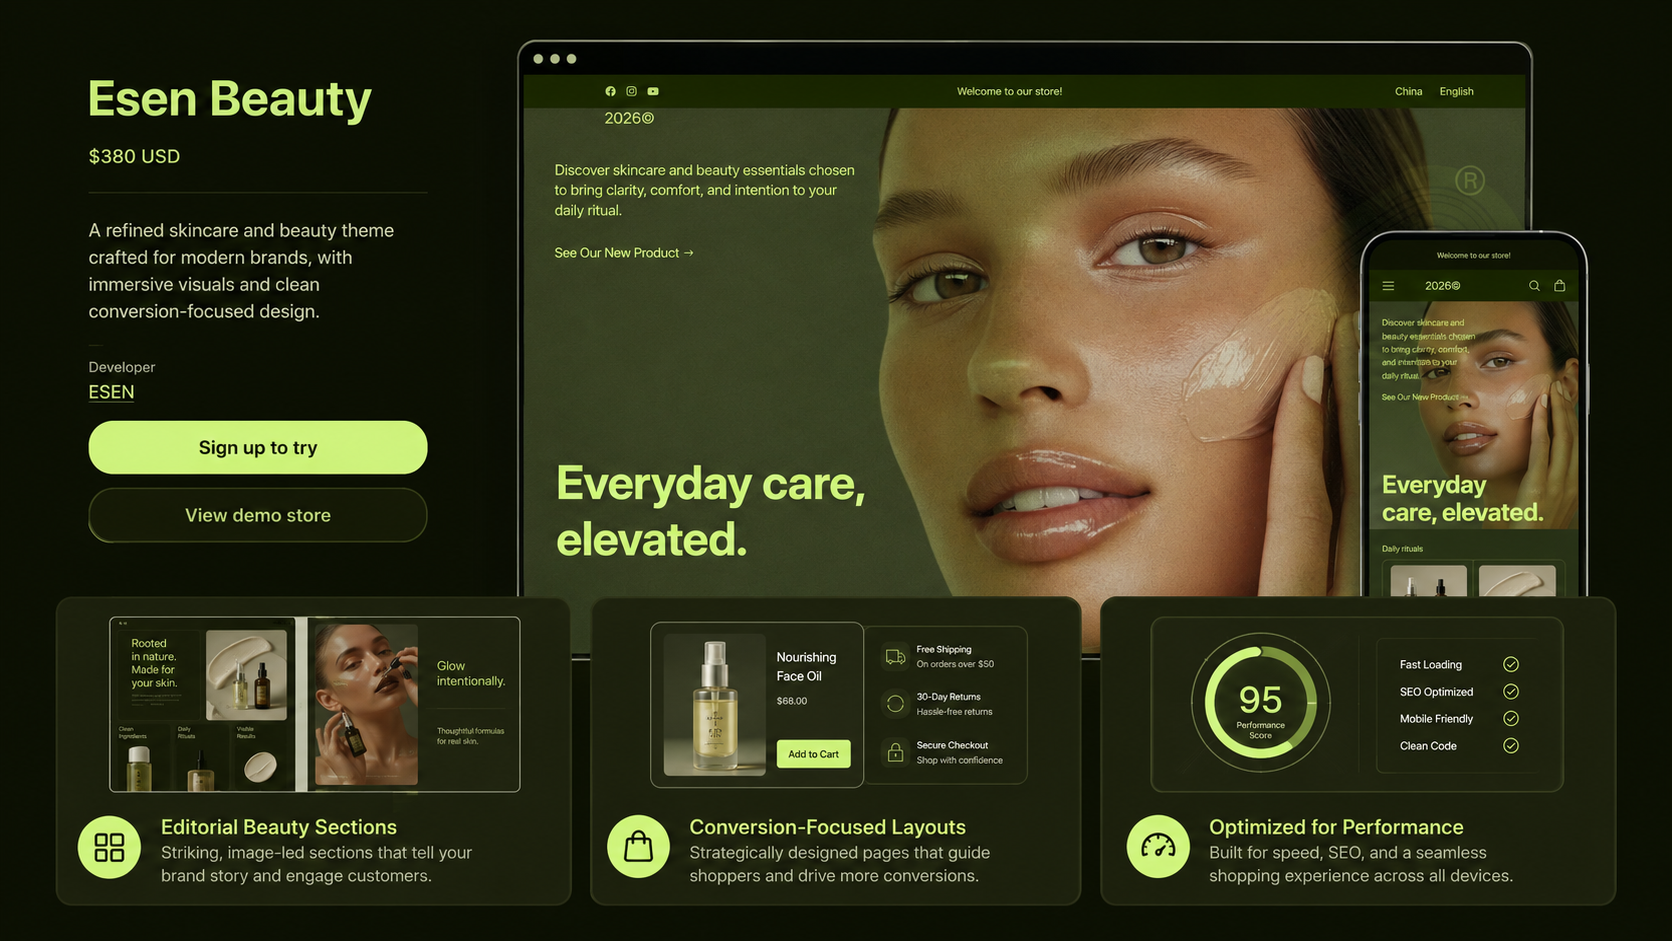
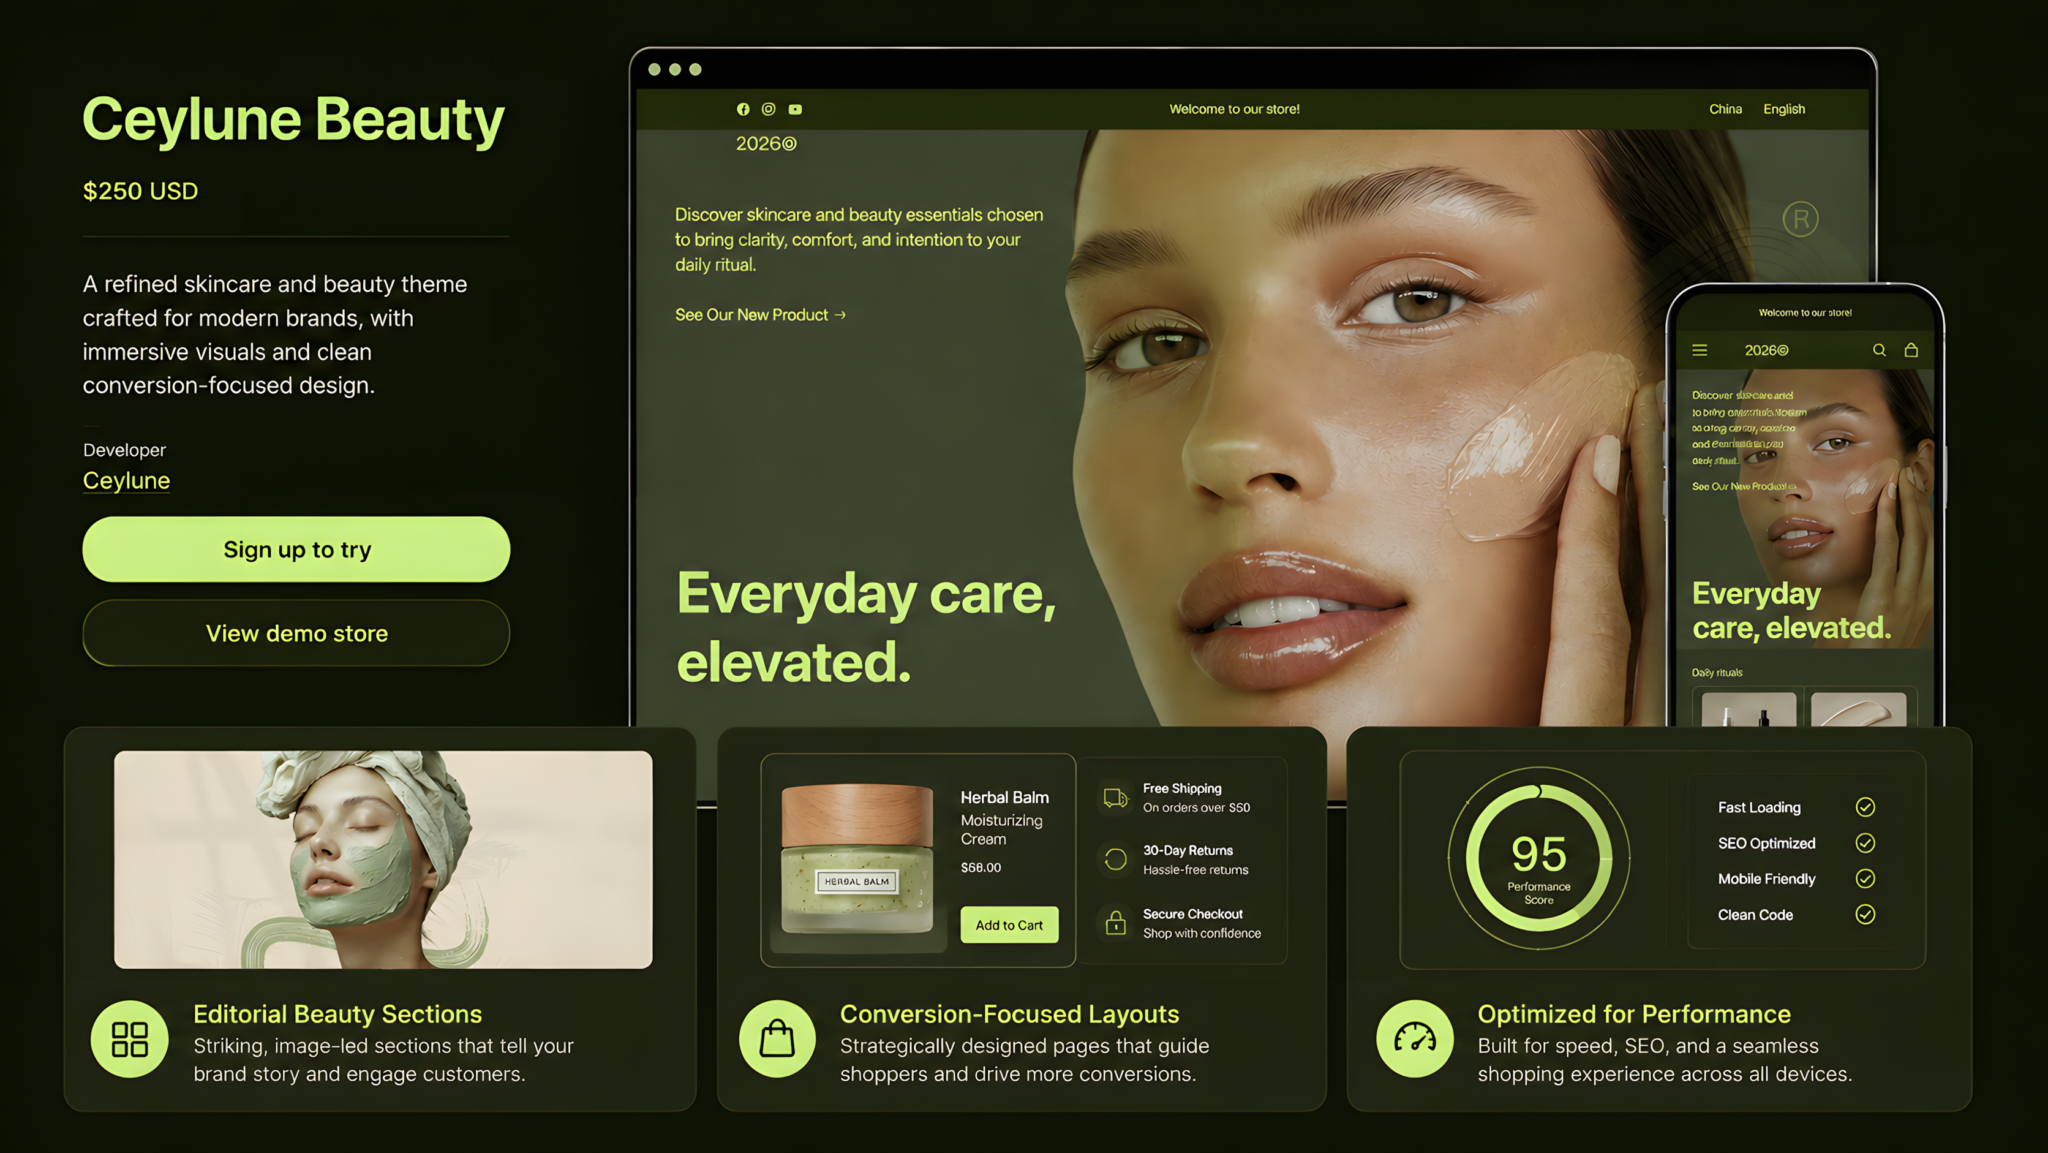
Update project

diff --git a/docs/en/getting-started.md b/docs/en/getting-started.md
@@ -9,4 +9,4 @@ This guide is intended for merchants using the current Shopify theme.
 - Prepare products, collections, pages, blog posts, and policy pages.
 - Duplicate the live theme before making large changes.
 
-![Theme homepage preview](/images/en/homepage-preview.png)
+![Ceylune Beauty theme homepage preview](/images/en/homepage-preview.png)

diff --git a/docs/zh/getting-started.md b/docs/zh/getting-started.md
@@ -9,4 +9,4 @@
 - 准备商品、集合、页面、博客文章和政策页面。
 - 大幅修改前，先复制当前正式主题作为备份。
 
-![主题首页预览](../public/images/zh/homepage-preview.png)
+![Ceylune Beauty 主题首页预览](/images/zh/homepage-preview.png)
